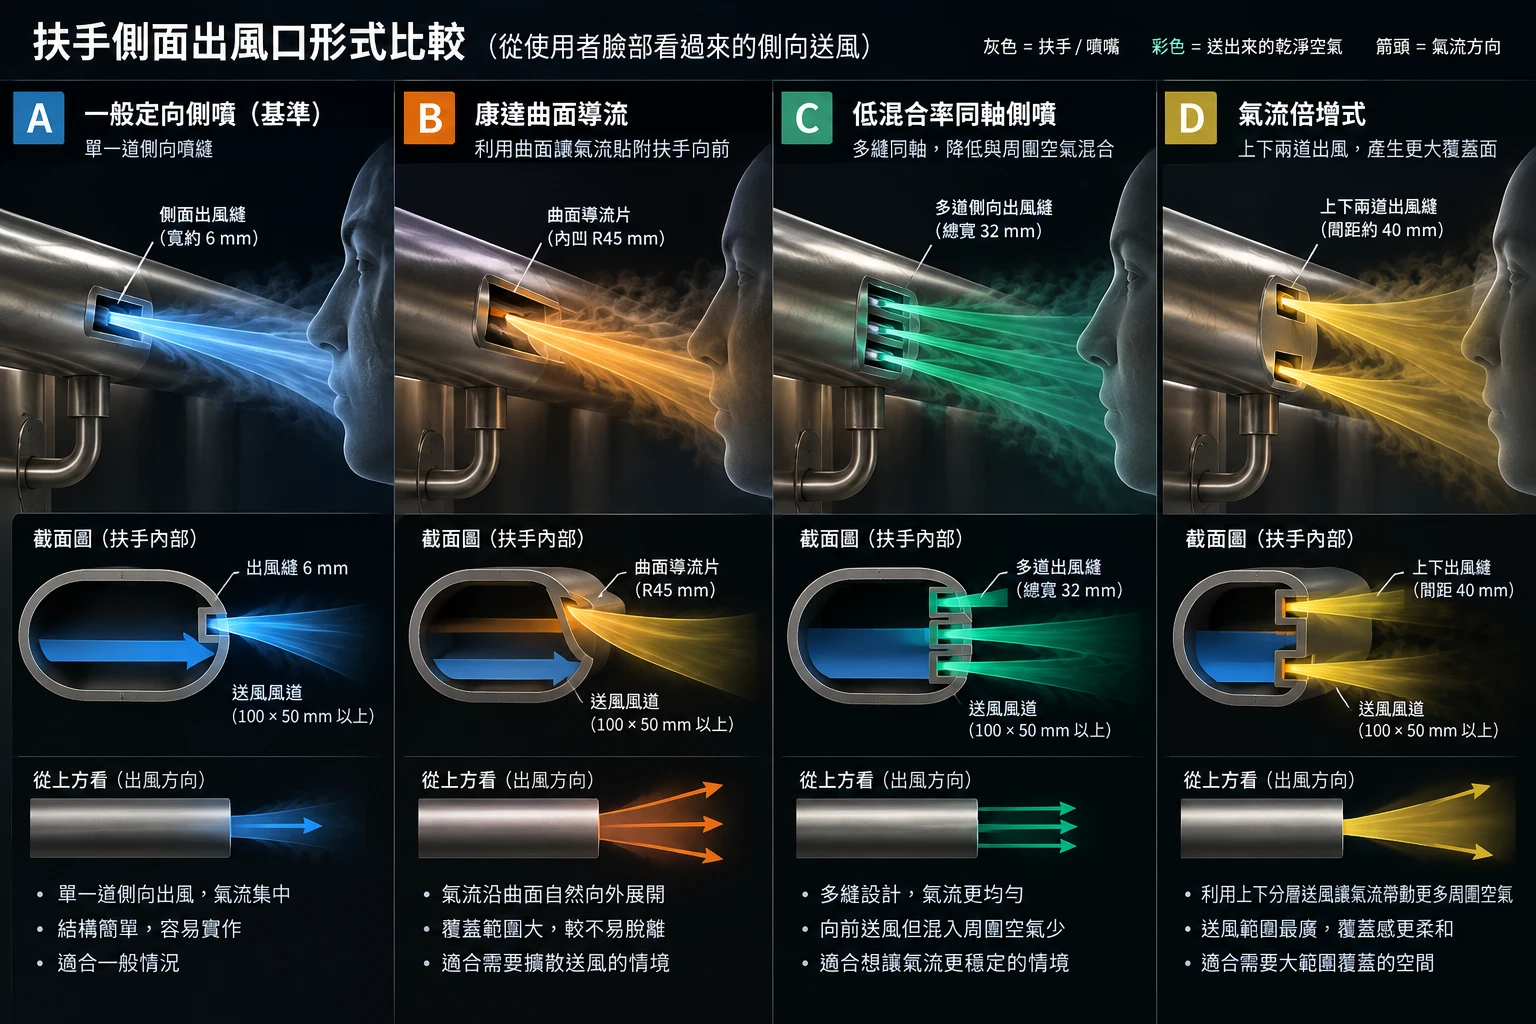
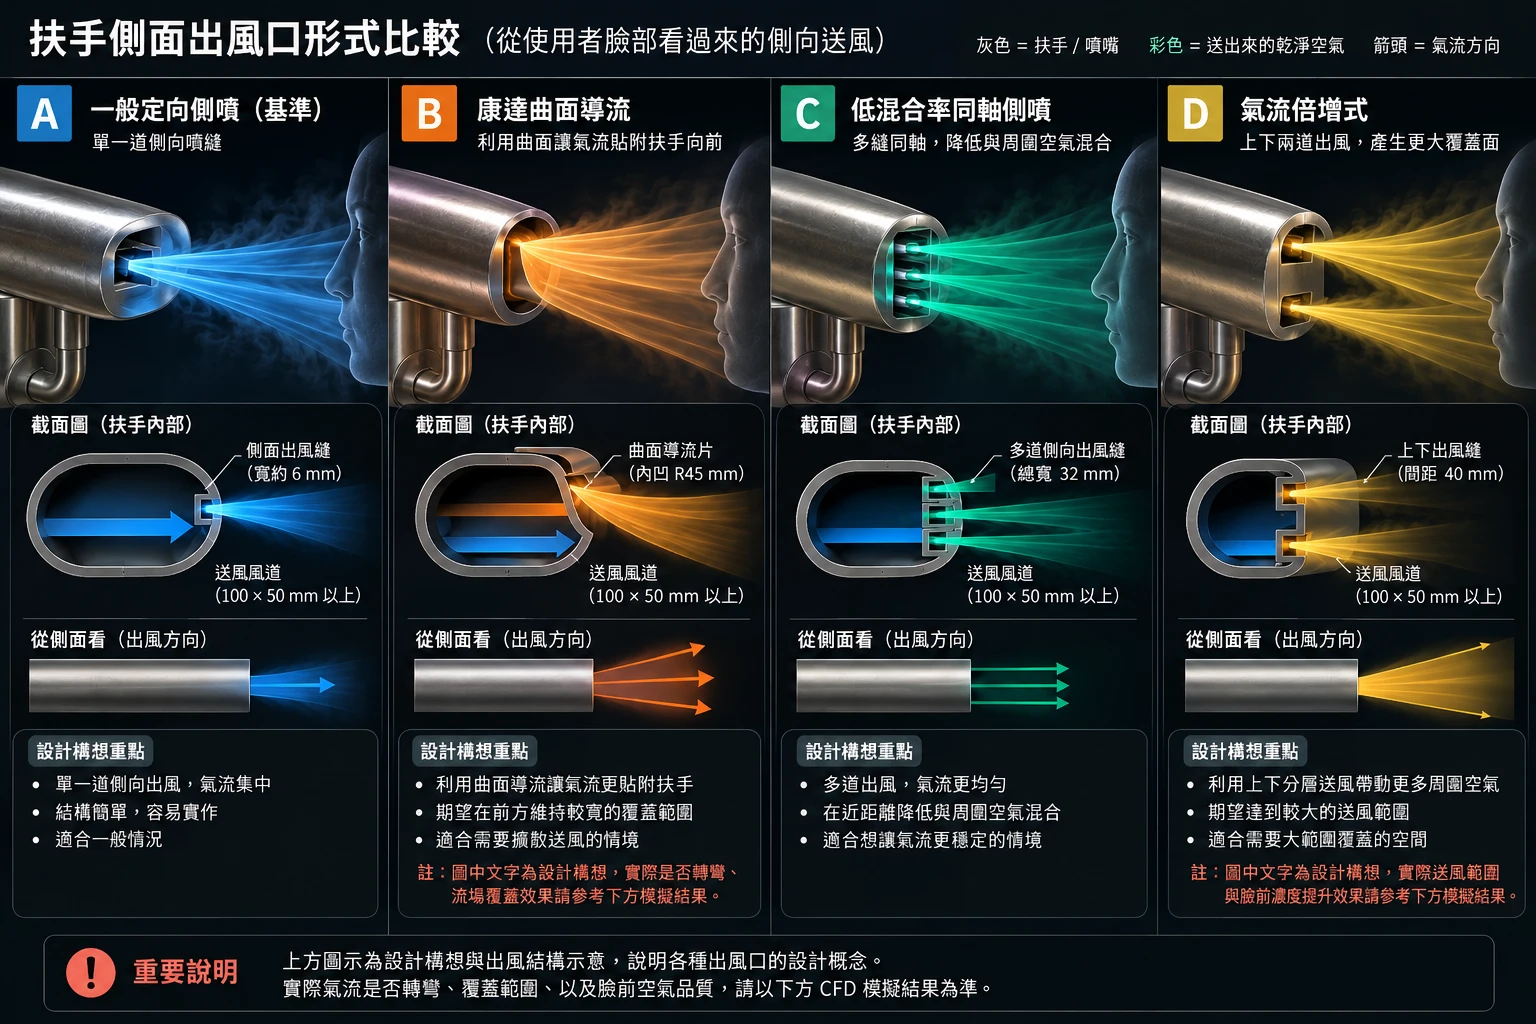
S2 face-above rerun: face 45 cm up-and-forward of the handrail
Faces are above and in front of the handrail when walking downstairs, so
rebuild the four-outlet comparison with outlets aimed at the mouth and the
upward Coanda outlet as option B. Also replaces the outlet render.

Claude-Session: https://claude.ai/code/session_01CLMVR9XzZXdsSKCMSLUbBG

diff --git a/stairwell-airflow-sim/cases/build_face.py b/stairwell-airflow-sim/cases/build_face.py
@@ -1,0 +1,186 @@
+"""
+build_face.py — S2 改版：臉在扶手「斜上方」。
+
+人扶著內側扶手下樓時，口鼻在扶手的斜上方。這裡把口鼻放在出風口往樓梯側 28 cm、往上 35 cm
+（距離約 45 cm、仰角約 51°），頭部以直徑 16 cm 圓柱近似，口鼻量測框在頭部朝出風口那一側。
+出風口：
+  A 一般定向：6 mm 窄縫，朝向口鼻。
+  B 康達往上（Ku）：出風縫藏在導風腔底面，經下緣圓角 R30 轉向上（不另外對準口鼻，這就是它的設計）。
+  C 低混合同軸：中央 15 mm＋兩側 7.5 mm 伴流，朝向口鼻。
+  D 氣流倍增：開口 40 mm、內壁兩道 4.5 mm 縫、背面開放，朝向口鼻。
+每公尺出風口送風量都是 5 L/s（與舊 S2 相同）；網格 1.5 mm。
+"""
+import json
+import os
+import sys
+
+import numpy as np
+
+HERE = os.path.dirname(os.path.abspath(__file__))
+ROOT = os.path.dirname(HERE)
+
+DX = 1.5e-3
+LX, LY = 0.68, 0.82
+X0, Y0 = 0.16, 0.20                  # 出風口出口中心（左側留空間給 B 的導風腔）
+MOUTH = (X0 + 0.28, Y0 + 0.35)
+HEAD_R = 0.08
+AIM = np.degrees(np.arctan2(MOUTH[1] - Y0, MOUTH[0] - X0))
+Q = 5e-3
+RAIL_R = 0.025
+NU, D_MOL, U_LAT_MAX, TAU_MIN = 1.5e-5, 2.0e-5, 0.1, 0.504
+T_TOTAL, T_WARM = 10.0, 3.0
+NX, NY = int(round(LX / DX)), int(round(LY / DX))
+FLUID, SOLID, INLET = 0, 1, 2
+
+
+def grid():
+    x = (np.arange(NX) + 0.5) * DX
+    y = (np.arange(NY) + 0.5) * DX
+    return np.meshgrid(x, y)
+
+
+def local(X, Y, ang):
+    a = np.deg2rad(ang)
+    s = (X - X0) * np.cos(a) + (Y - Y0) * np.sin(a)
+    n = -(X - X0) * np.sin(a) + (Y - Y0) * np.cos(a)
+    return s, n, np.cos(a), np.sin(a)
+
+
+def rect(X, Y, x0, x1, y0, y1):
+    return (X >= x0) & (X < x1) & (Y >= y0) & (Y < y1)
+
+
+def rail_behind(X, Y, t, ang, L, keep):
+    a = np.deg2rad(ang)
+    rx, ry = X0 - (L + RAIL_R - 0.008) * np.cos(a), Y0 - (L + RAIL_R - 0.008) * np.sin(a)
+    t[((X - rx) ** 2 + (Y - ry) ** 2 <= RAIL_R ** 2) & ~keep] = SOLID
+
+
+def outlet_channels(X, Y, t, ux, uy, half_w, L, streams, ang):
+    s, n, cs, sn = local(X, Y, ang)
+    wall = 3 * DX
+    t[(s >= -L - 3 * DX) & (s < 0) & (np.abs(n) < half_w + wall)] = SOLID
+    keep = np.zeros_like(t, bool)
+    for n0, n1, U in streams:
+        ch = (s >= -L) & (s < 0) & (n >= n0) & (n < n1)
+        t[ch] = FLUID
+        keep |= ch
+        inl = ch & (s < -L + 2 * DX)
+        t[inl] = INLET
+        ux[inl] = U * cs
+        uy[inl] = U * sn
+    rail_behind(X, Y, t, ang, L, keep | ((s >= -L - 3 * DX) & (s < 0) & (np.abs(n) < half_w + wall)))
+
+
+def nozzle_A(X, Y, t, ux, uy):
+    b = 6e-3
+    outlet_channels(X, Y, t, ux, uy, b / 2, 25e-3, [(-b / 2, b / 2, Q / b)], AIM)
+    return dict(U_exit=Q / b)
+
+
+def nozzle_C(X, Y, t, ux, uy):
+    bc, bs = 15e-3, 7.5e-3
+    U1 = Q / (bc + 2 * bs * 0.5)
+    h = bc / 2 + DX + bs
+    outlet_channels(X, Y, t, ux, uy, h, 30e-3,
+                    [(-bc / 2, bc / 2, U1), (bc / 2 + DX, h, 0.5 * U1), (-h, -bc / 2 - DX, 0.5 * U1)], AIM)
+    return dict(U_exit=U1)
+
+
+def nozzle_D(X, Y, t, ux, uy):
+    W, b, th, L = 40e-3, 4.5e-3, 6e-3, 30e-3
+    U = Q / (2 * b)
+    s, n, cs, sn = local(X, Y, AIM)
+    for sg in (+1, -1):
+        n_in = sg * W / 2
+        lo, hi = sorted((n_in, n_in + sg * th))
+        t[(s >= -L) & (s < 0) & (n >= lo) & (n < hi)] = SOLID
+        slo, shi = (n_in - b, n_in) if sg > 0 else (n_in, n_in + b)
+        plo, phi = (slo - 2 * DX, slo) if sg > 0 else (shi, shi + 2 * DX)
+        t[(s >= -L) & (s < -L + 10e-3) & (n >= plo) & (n < phi)] = SOLID          # 縫與開口的隔板
+        t[(s >= -L) & (s < -L + 2 * DX) & (n >= slo) & (n < shi)] = SOLID          # 縫的背板
+        inl = (s >= -L + 2 * DX) & (s < -L + 4 * DX) & (n >= slo) & (n < shi)
+        t[inl] = INLET
+        ux[inl] = U * cs
+        uy[inl] = U * sn
+    a = np.deg2rad(AIM)
+    rx, ry = X0 - (L + 0.015 + RAIL_R) * np.cos(a), Y0 - (L + 0.015 + RAIL_R) * np.sin(a)
+    t[(X - rx) ** 2 + (Y - ry) ** 2 <= RAIL_R ** 2] = SOLID
+    return dict(U_exit=U)
+
+
+def nozzle_B(X, Y, t, ux, uy):
+    """康達往上：導風腔底面出風縫往樓梯側吹，經下緣圓角 R30 轉向上。導風腔正面中點在 (X0, Y0)。"""
+    b, R, Wc, Hc = 6e-3, 30e-3, 0.15, 0.06
+    U = Q / b
+    xr, xl, yb, yt = X0, X0 - Wc, Y0 - Hc / 2, Y0 + Hc / 2
+    cx, cy = xr - R, yb + R
+    body = rect(X, Y, xl, xr, yb, yt)
+    body &= ~((X > cx) & (Y < cy)) | ((X - cx) ** 2 + (Y - cy) ** 2 <= R * R)
+    t[body] = SOLID
+    L = 0.04
+    t[rect(X, Y, cx - L, cx, yb - b - 3 * DX, yb - b)] = SOLID
+    t[rect(X, Y, cx - L - 3 * DX, cx - L, yb - b - 3 * DX, yb)] = SOLID
+    ch = rect(X, Y, cx - L, cx, yb - b, yb)
+    t[ch] = FLUID
+    inl = ch & (X < cx - L + 2 * DX)
+    t[inl] = INLET
+    ux[inl] = U
+    gx = X0 - Wc / 2
+    t[rect(X, Y, gx - 8e-3, gx + 8e-3, yt, yt + 38e-3)] = SOLID
+    t[(X - gx) ** 2 + (Y - (yt + 38e-3 + 24e-3)) ** 2 <= 24e-3 ** 2] = SOLID
+    return dict(U_exit=U)
+
+
+NOZZLES = dict(A=nozzle_A, B=nozzle_B, C=nozzle_C, D=nozzle_D)
+
+
+def build(name, nz, vc):
+    X, Y = grid()
+    t = np.zeros((NY, NX), np.uint8)
+    ux = np.zeros((NY, NX), np.float32)
+    uy = np.zeros((NY, NX), np.float32)
+    info = NOZZLES[nz](X, Y, t, ux, uy)
+    # 頭：口鼻在 MOUTH，頭中心再沿出風口→口鼻方向往外 HEAD_R + 1.5 cm
+    d = np.array([MOUTH[0] - X0, MOUTH[1] - Y0])
+    d /= np.linalg.norm(d)
+    hc = np.array(MOUTH) + d * (HEAD_R + 0.015)
+    t[(X - hc[0]) ** 2 + (Y - hc[1]) ** 2 <= HEAD_R ** 2] = SOLID
+    # 口鼻量測框：頭部朝出風口一側、離頭表面 0.5–2.5 cm、寬 ±1.2 cm
+    s = (X - hc[0]) * (-d[0]) + (Y - hc[1]) * (-d[1])
+    n = (X - hc[0]) * (-d[1]) + (Y - hc[1]) * d[0]
+    probe = (s >= HEAD_R + 0.005) & (s <= HEAD_R + 0.025) & (np.abs(n) <= 0.012) & (t != SOLID)
+    u_ref = max(float(np.abs(ux).max()), float(np.abs(uy).max()), 2.5 * vc)
+    vel_scale = u_ref / U_LAT_MAX
+    dt = DX / vel_scale
+    cfg = dict(nx=NX, ny=NY, steps=int(round(T_TOTAL / dt)), warmup=int(round(T_WARM / dt)),
+               tau0=max(0.5 + 3 * NU * dt / DX ** 2, TAU_MIN), cs=0.17, dlat=D_MOL * dt / DX ** 2, sct=0.7,
+               vc=vc / vel_scale, sponge=25, probe_every=max(1, int(round(0.01 / dt))),
+               frame_every=max(1, int(round(0.08 / dt))) if vc == 0.15 else 0)
+    dd = os.path.join(ROOT, "runs_face", name)
+    os.makedirs(os.path.join(dd, "frames"), exist_ok=True)
+    with open(os.path.join(dd, "case.cfg"), "w") as f:
+        for k, v in cfg.items():
+            f.write(f"{k} {v:.10g}\n")
+    with open(os.path.join(dd, "geom.bin"), "wb") as f:
+        f.write(t.tobytes())
+        f.write((ux / vel_scale).astype(np.float32).tobytes())
+        f.write((uy / vel_scale).astype(np.float32).tobytes())
+        f.write(probe.astype(np.uint8).tobytes())
+    meta = dict(name=name, nozzle=nz, vc_ms=vc, dx=DX, dt=dt, vel_scale=vel_scale, x0=X0, y0=Y0,
+                mouth=MOUTH, head_c=hc.tolist(), head_r=HEAD_R, aim_deg=AIM, q=Q, t_total=T_TOTAL,
+                t_warm=T_WARM, **info, **cfg)
+    json.dump(meta, open(os.path.join(dd, "meta.json"), "w"), indent=1)
+    np.save(os.path.join(dd, "type.npy"), t)
+    return meta
+
+
+CASES = [(f"{nz}_vc{int(vc*100):02d}", nz, vc) for vc in (0.0, 0.15, 0.30) for nz in "ABCD"]
+
+if __name__ == "__main__":
+    sel = sys.argv[1:]
+    for name, nz, vc in CASES:
+        if sel and name not in sel:
+            continue
+        m = build(name, nz, vc)
+        print(f"{name:8s} steps={m['steps']:6d} tau0={m['tau0']:.4f} U={m['U_exit']:.2f} aim={m['aim_deg']:.0f}°")
